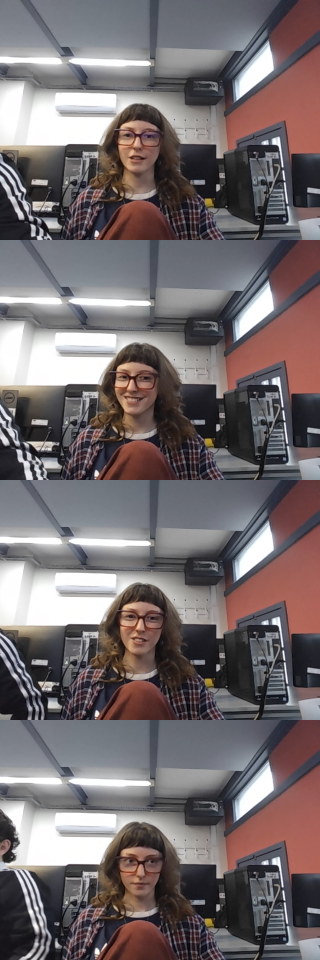
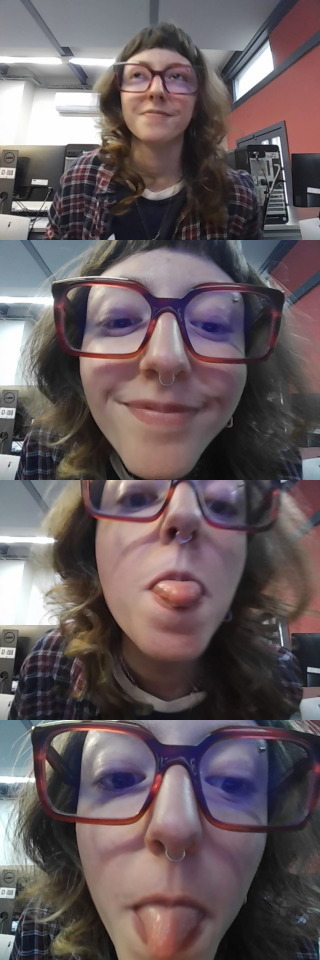
hice cagada, y ahora lo arregle

diff --git a/clase10-practico/filtros.py b/clase10-practico/filtros.py
@@ -1,0 +1,62 @@
+import cv2
+import numpy as np
+
+
+# ---------------------------------------------------------------
+# De la clase 9
+# ---------------------------------------------------------------
+def cargar(ruta):
+    img = cv2.imread(ruta)
+    if img is None:
+        print("No pude cargar", ruta)
+    return img
+
+
+def miniatura(img, ancho=200):
+    alto = int(img.shape[0] * ancho / img.shape[1])
+    return cv2.resize(img, (ancho, alto))
+
+
+def a_gris(img):
+    return cv2.cvtColor(img, cv2.COLOR_BGR2GRAY)
+
+
+# ---------------------------------------------------------------
+# Clase 10
+# ---------------------------------------------------------------
+def sin_filtro(img):
+    return img
+
+
+def desenfocar(img):
+    return cv2.GaussianBlur(img, (21, 21), 0)
+
+
+def bordes(img):
+    gris = a_gris(img)
+    return cv2.Canny(gris, 100, 200)
+
+
+def umbral(img):
+    gris = a_gris(img)
+    _, bn = cv2.threshold(gris, 127, 255, cv2.THRESH_BINARY)
+    return bn
+
+
+def invertir(img):
+    return 255 - img
+
+
+def lapiz(img):
+    """Dibujo a lápiz, en cuatro pasos."""
+    gris = a_gris(img)                                # 1. gris
+    negativo = 255 - gris                             # 2. invertir
+    borroso = cv2.GaussianBlur(negativo, (21, 21), 0) # 3. desenfocar
+    return cv2.divide(gris, 255 - borroso, scale=256) # 4. mezclar
+
+
+def a_color(img):
+    """Si la imagen tiene 1 canal, la pasa a 3. Si no, la devuelve igual."""
+    if len(img.shape) == 2:
+        return cv2.cvtColor(img, cv2.COLOR_GRAY2BGR)
+    return img
